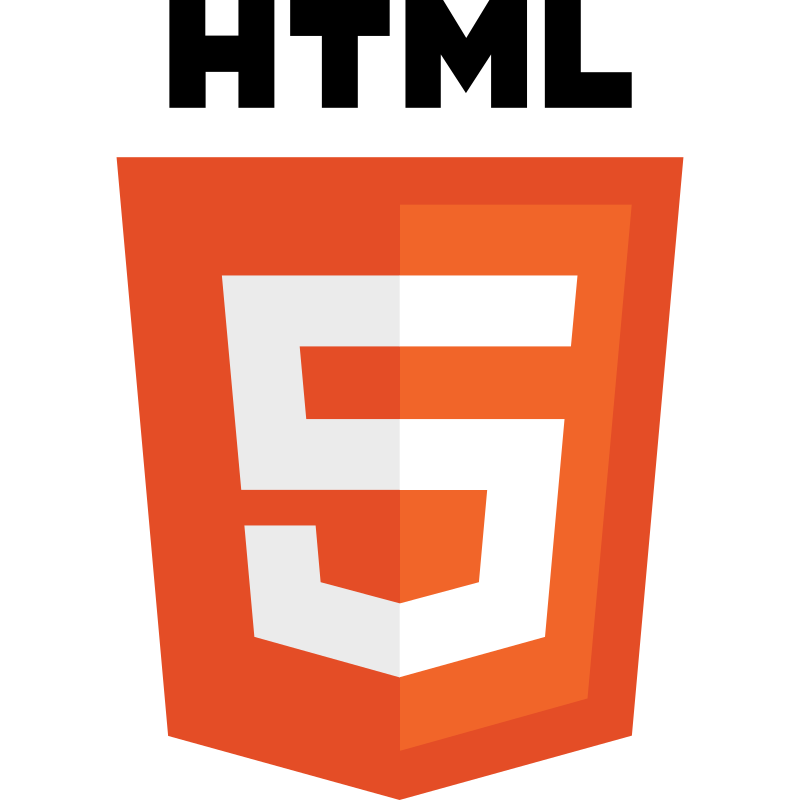
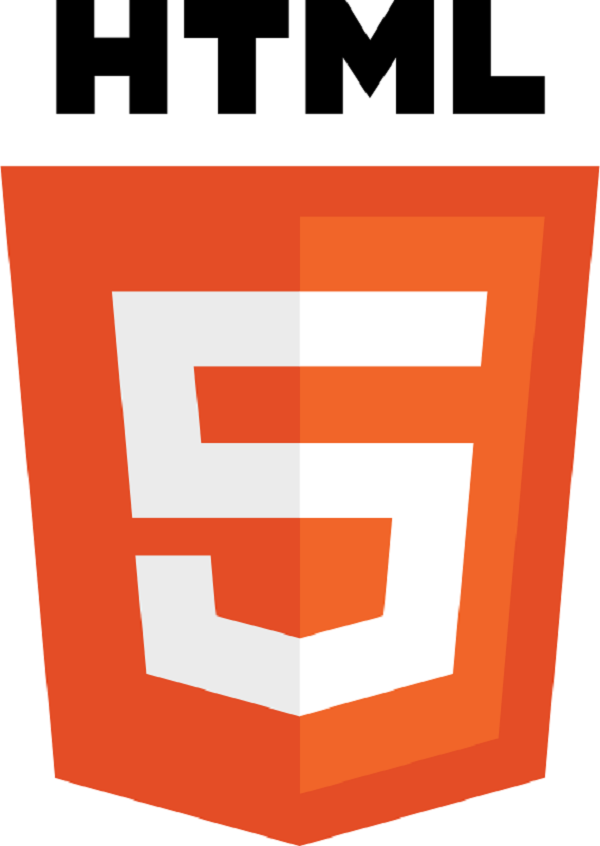
edited pictures and added styles to size them

diff --git a/style.css b/style.css
@@ -10,7 +10,6 @@ html {
 
 body {
 	background: #fefefe;
-	padding: 0 10px 0 10px;
 }
 
 .article {
@@ -46,6 +45,7 @@ body {
 
 .page-footer {
 	background: #dddddd;
+	padding: 0 10px 0 10px;
 }
 
 .page-footer__go-top {
@@ -57,15 +57,22 @@ body {
 }
 
 .page-header {
-	background: rgb(200, 200, 255);
+	padding: 0 10px 0 10px;
 }
 
 .page-header__heading {
+	background: rgb(202, 218, 234);
 	color: rgb(60, 60, 150);
+}
+
+.page-header__picture {
+	max-width: 40vw;
+	max-height: 40vh;
 }
 
 .section {
 	background: #eeeeee;
+	padding: 0 10px 0 10px;
 }
 
 .section__heading {

diff --git a/nauka-css.html b/nauka-css.html
@@ -19,7 +19,7 @@
   </header>
   <main>
     <header class="page-header">
-      <img src="css3.png" alt="logo css 3">
+      <img class="page-header__picture" src="css3.png" alt="logo css 3">
       <h1 class="page-header__heading"><em>Nauka CSS</em></h1>
     </header>
     <section class="section">

diff --git a/nauka-html.html b/nauka-html.html
@@ -19,7 +19,7 @@
 	</header>
 	<main>
 		<header class="page-header">
-			<img src="html5.png" alt="logo html 5">
+			<img class="page-header__picture" src="html5.png" alt="logo html 5">
 			<h1 class="page-header__heading"><em>Nauka HTML</em></h1>
 		</header>
 		<section class="section">
